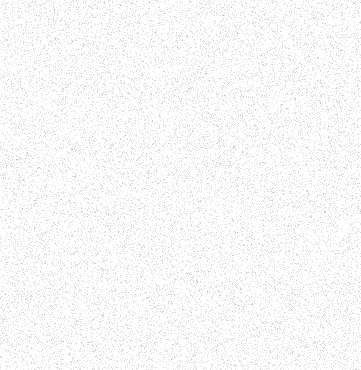
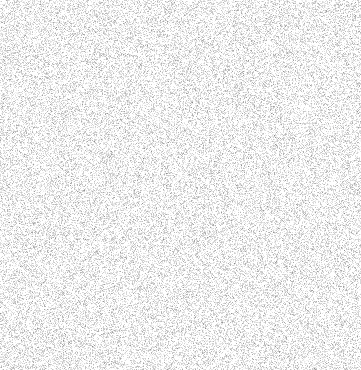
new noise variant + top and bottom fade

diff --git a/routes/stats.tsx b/routes/stats.tsx
@@ -2,9 +2,14 @@ import ActiveContainer from "../islands/stats/ActiveContainer.tsx";
 import { Noise } from "../components/common/backgrounds/Noise.tsx";
 export default function Stats() {
   return (
+    <>
+        <div class="h-full top-0"><Noise /></div>
     <div class="h-full mb-[2rem]">
-      <Noise />
-      <p class="my-[1rem]
+
+      <p class="
+  mt-[1rem]
+  sm:mt-[5rem]
+  mb-[1rem]
   font-medium
   sm:text-[1.7rem]
   text-[1.4rem]
@@ -14,7 +19,6 @@ export default function Stats() {
   dark:text-[#d0d0d0]
   text-[#3d3d3d]
   font-[Poppins]
-  bg-transparent
   lg:max-w-[32rem]
   max-w-full
   rounded-xl
@@ -25,5 +29,6 @@ export default function Stats() {
       <ActiveContainer />
       </div>
     </div>
+    </>
   );
 }

diff --git a/islands/stats/ActiveContainer.tsx b/islands/stats/ActiveContainer.tsx
@@ -23,7 +23,7 @@ export default function ActiveContainer() {
   </div>
   )
   return (
-    <div class="flex w-full mt-[1rem] mx-auto sm:w-[42rem] gap-[6px] flex-col">
+    <div class="flex w-full min-h-[90svh] mt-[1rem] mx-auto sm:w-[42rem] gap-[6px] flex-col">
       <div class="flex h-[4.5rem] sm:h-[5rem] mx-auto justify-center sm:w-[473px] w-[358px]">
         <div class="w-full z-[5] relative">
           <Summary />
